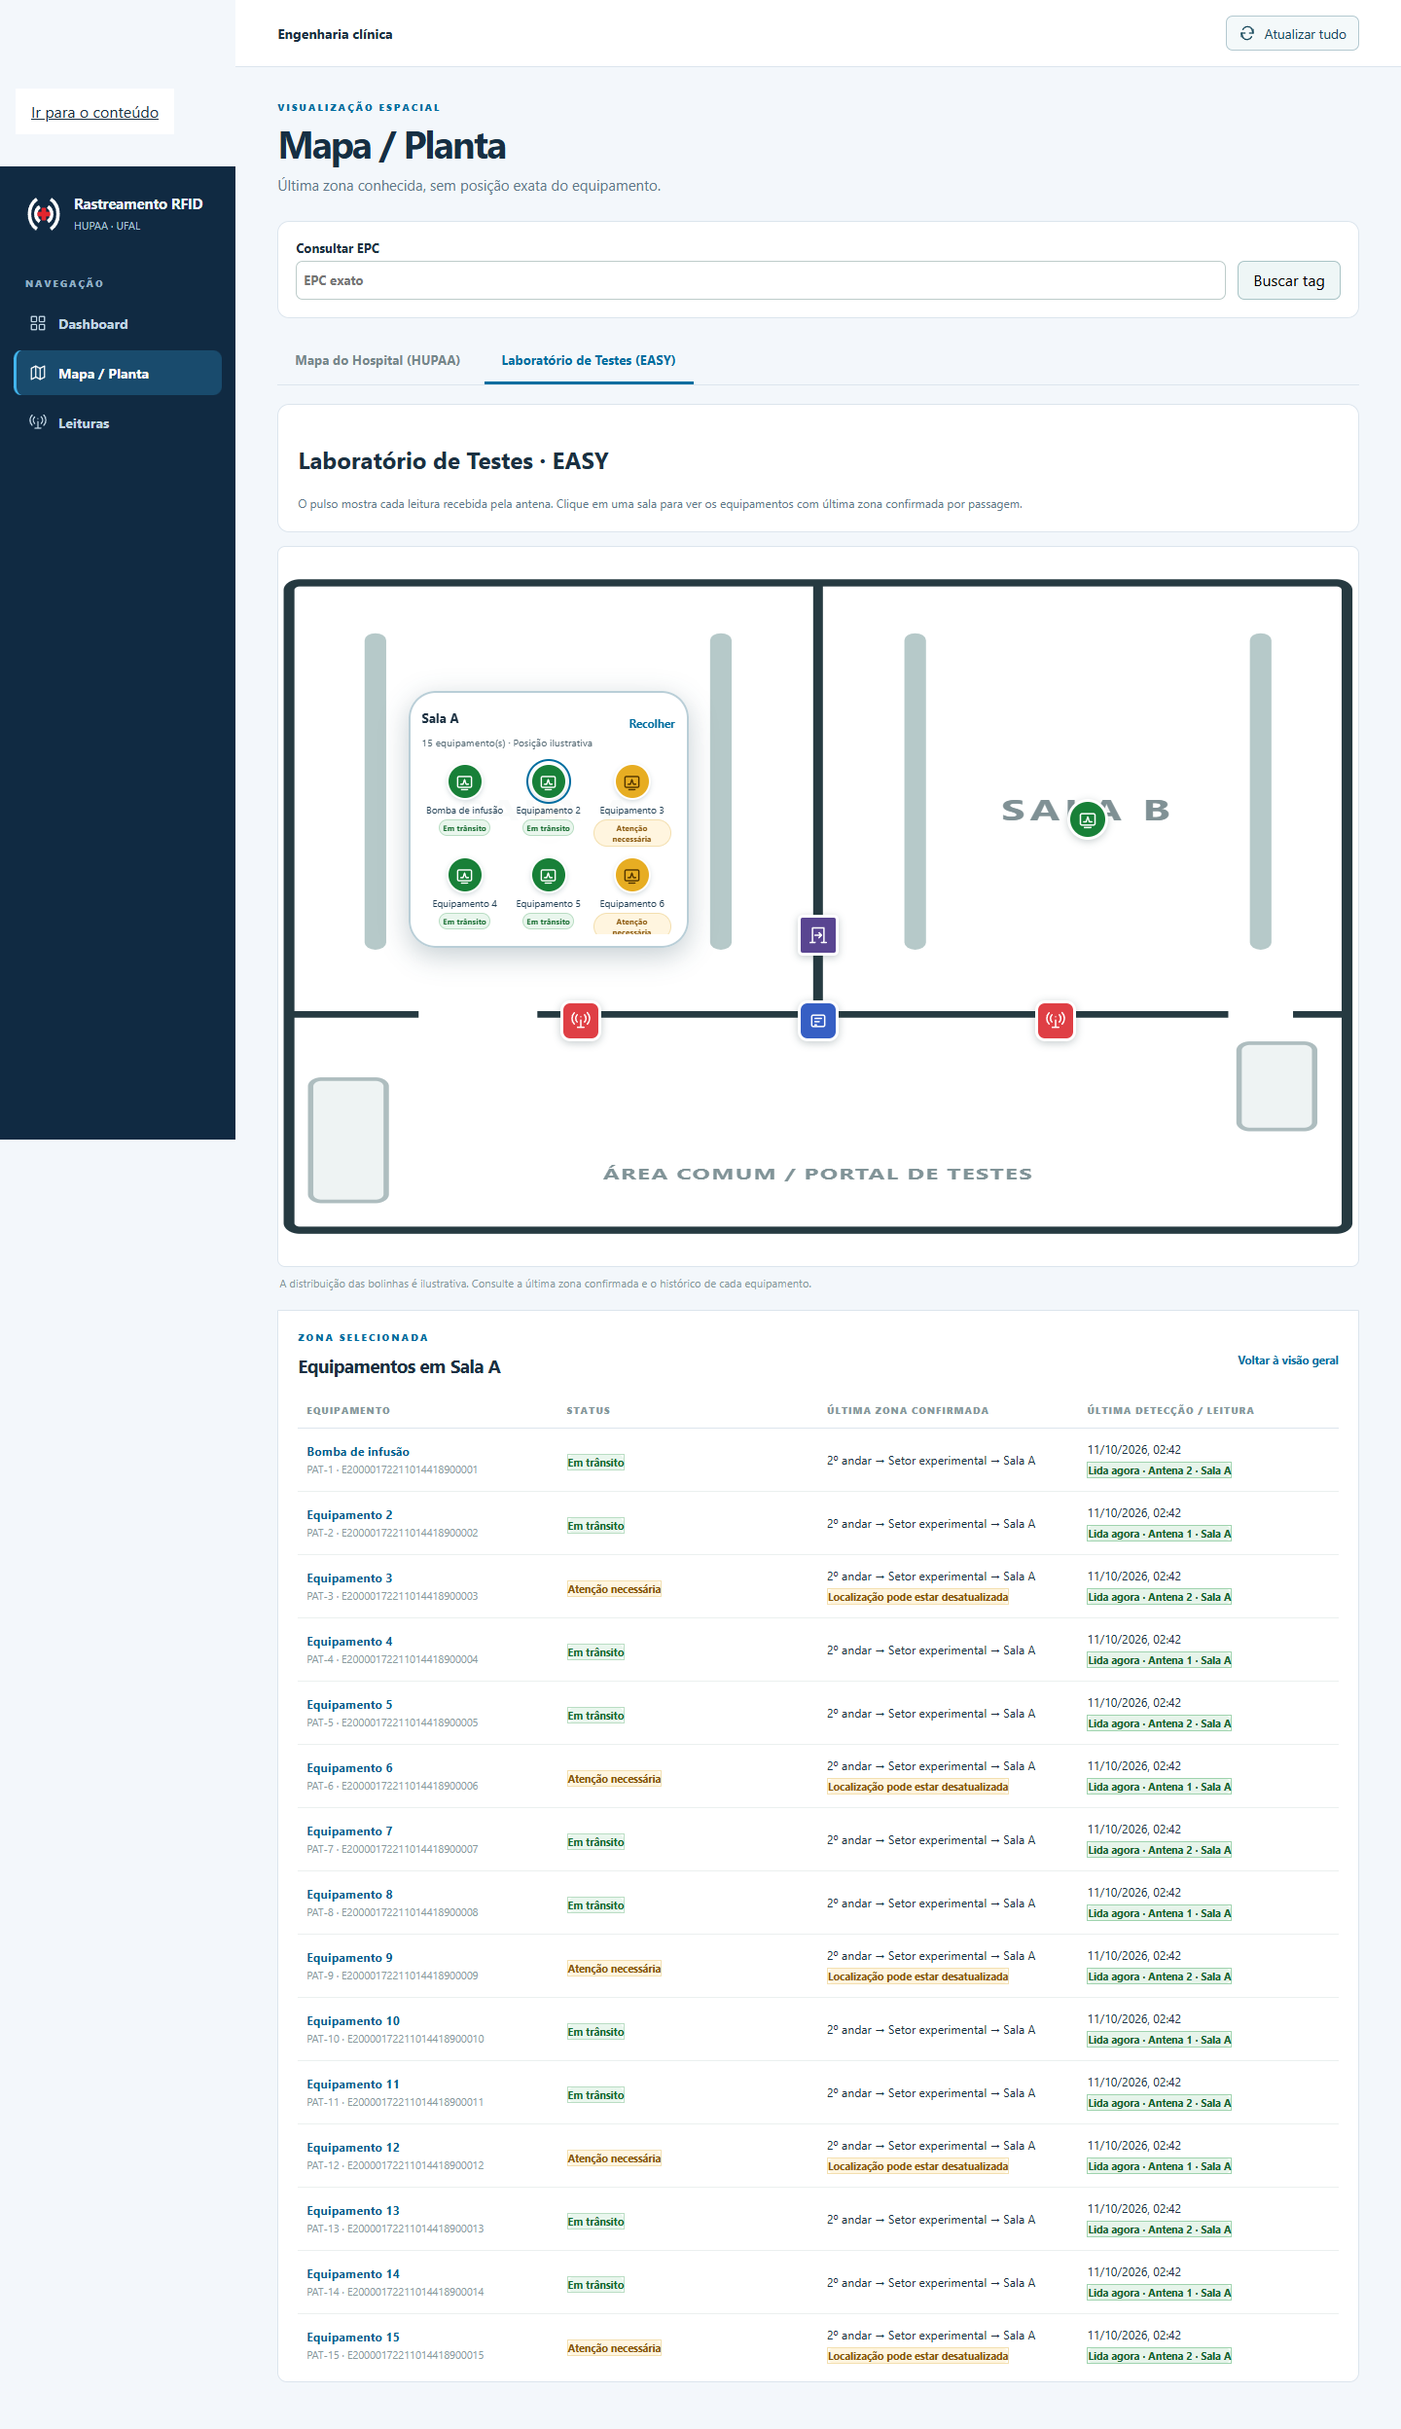
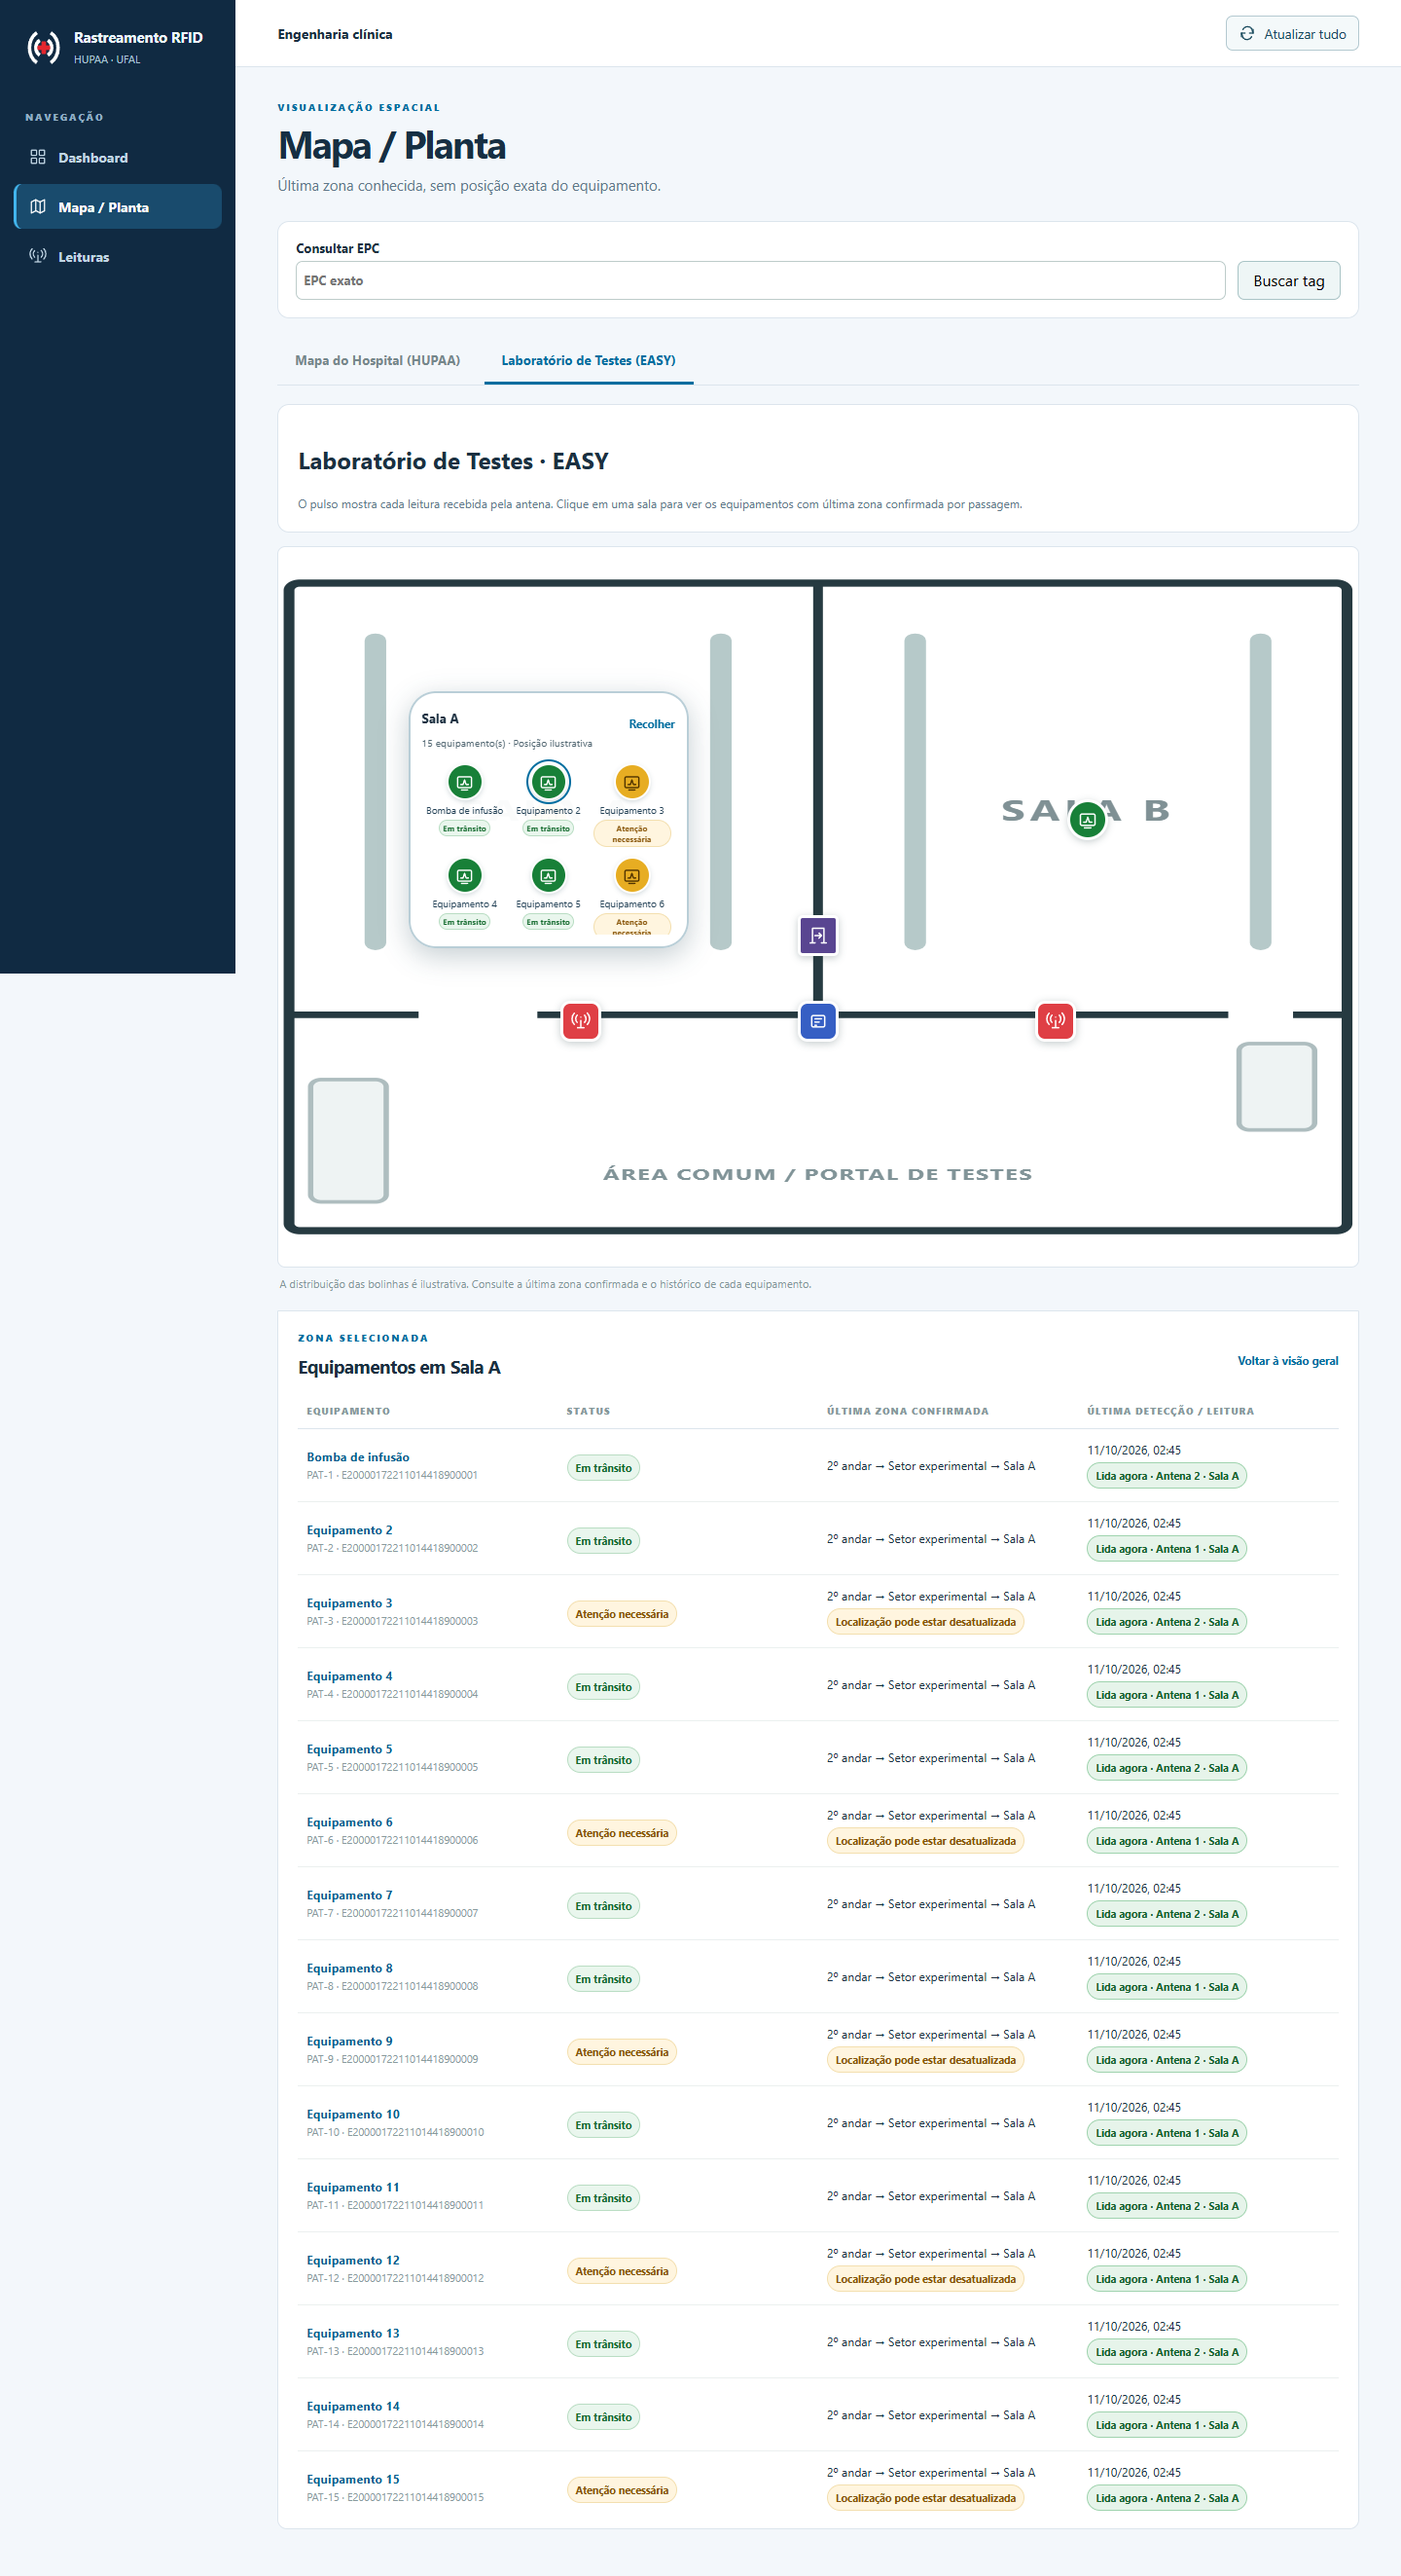
style(frontend): ajustar badges e capturas dos mapas

diff --git a/frontend/src/styles/main.css b/frontend/src/styles/main.css
@@ -1641,5 +1641,5 @@ button,a {
 .floor-map-hospital .sector-pin { transform:translate(-50%,-185%) }
 .map-equipment-browser .equipment-table { table-layout:fixed }
 .map-equipment-browser .equipment-table td { overflow-wrap:anywhere }
-.map-equipment-browser .equipment-table td .status-badge { display:table; margin:5px 0 0 }
+.map-equipment-browser .equipment-table td .status-badge { display:flex; width:fit-content; max-width:100%; margin:5px 0 0 }
 .map-equipment-browser .status-disponivel,.zone-dot-status .status-disponivel { color:#146b2e; background:#e9f6ed; border-color:#b9ddc3 }
